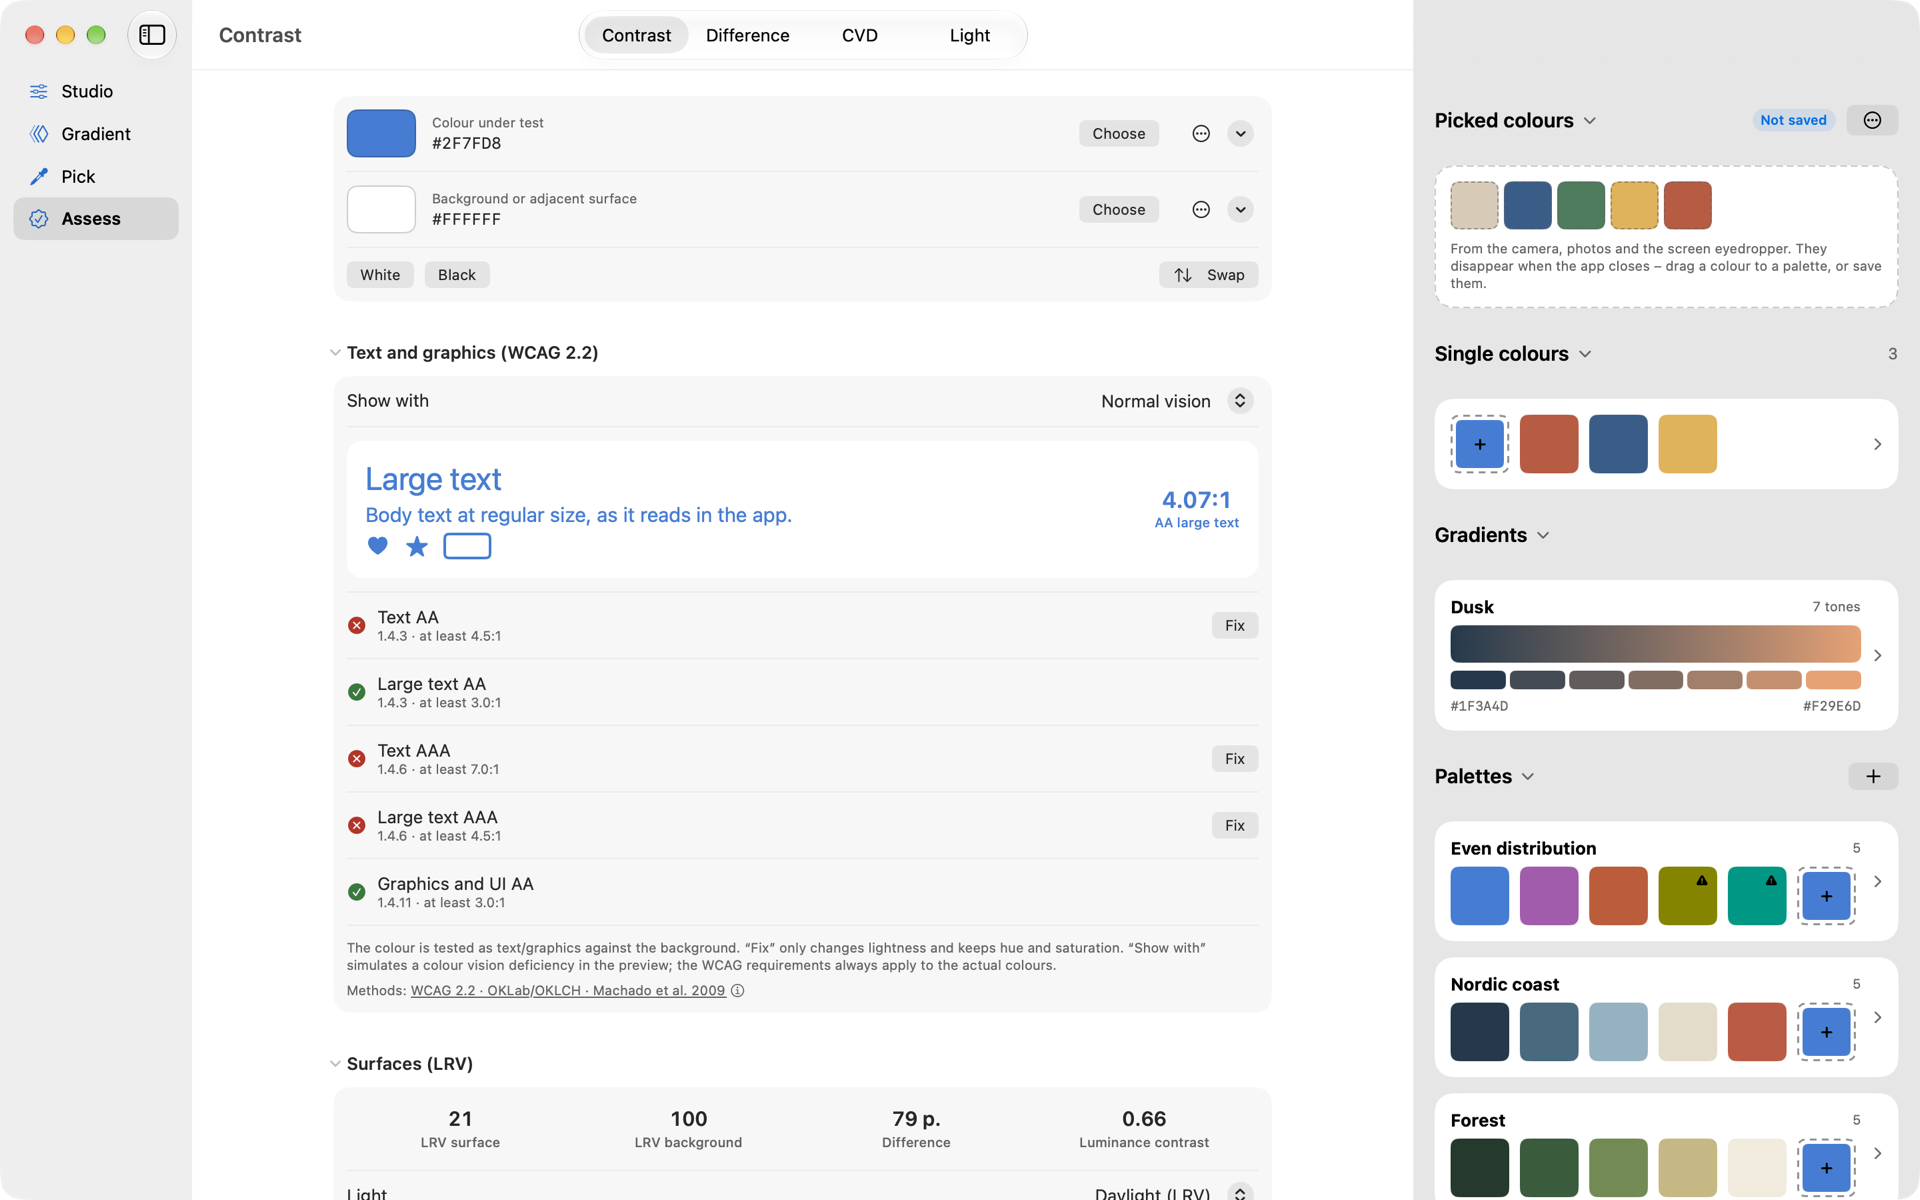
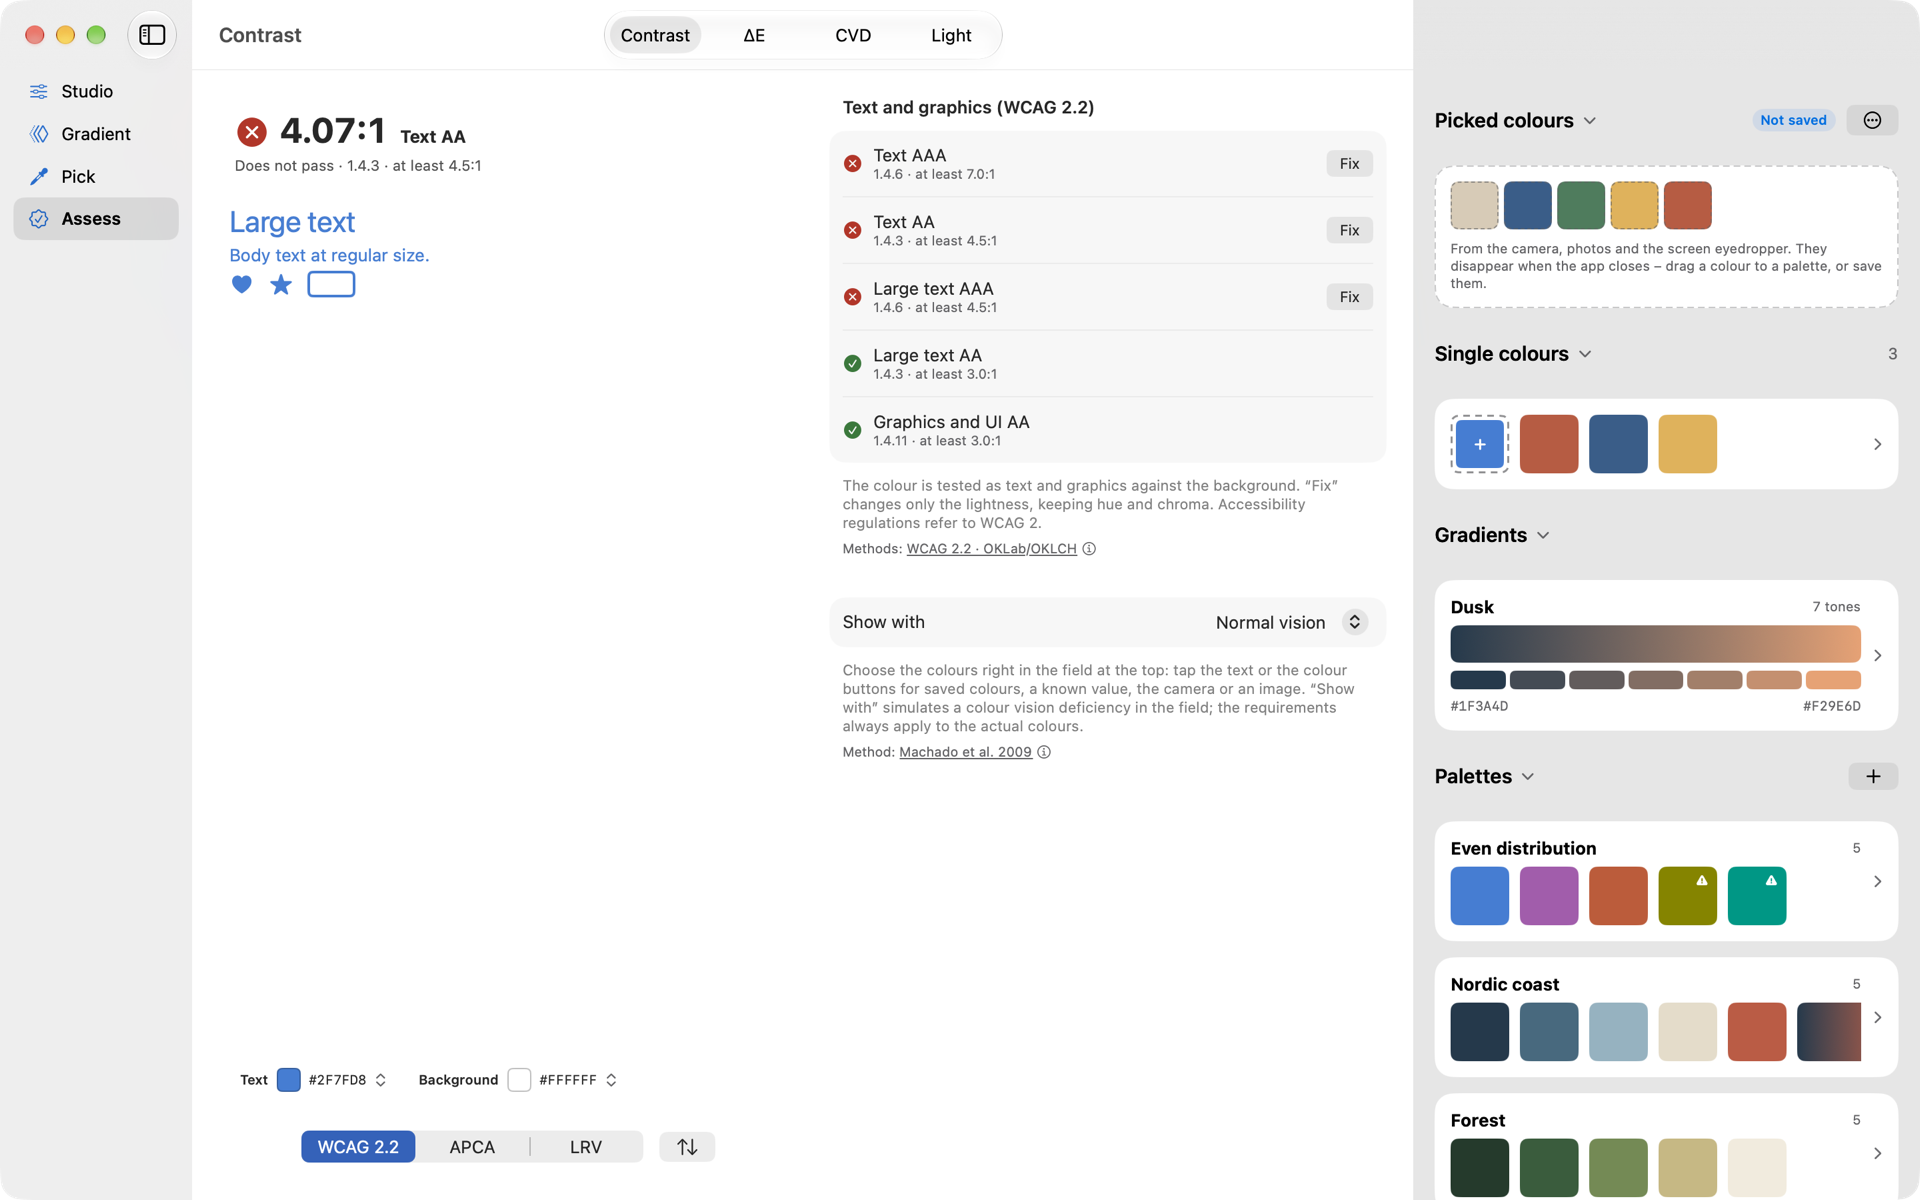
Mac-skjermbilder for 1.3 (designsystem, kontrast, flatekontrast; nb og en) på plattformsiden og til App Store; -visDesignsystem åpner i Designsystemer-fanen når vinduet er bredt

diff --git a/Kolorist/Visninger/Designsystem.swift b/Kolorist/Visninger/Designsystem.swift
@@ -169,6 +169,9 @@ struct DesignsystemRutenett: View {
 struct DesignsystemFane: View {
     @Environment(Arbeidsbenk.self) private var arbeidsbenk
     @State private var sti: [DesignsystemDokument] = []
+    #if DEBUG
+    @Query(sort: \DesignsystemDokument.opprettet, order: .reverse) private var designsystemer: [DesignsystemDokument]
+    #endif
 
     var body: some View {
         NavigationStack(path: $sti) {
@@ -185,6 +188,12 @@ struct DesignsystemFane: View {
             sti = [d]
             arbeidsbenk.designsystemSomÅpnes = nil
         }
+        #if DEBUG
+        // Skjermbilder: `-visDesignsystem YES` åpner det første designsystemet.
+        .task(id: designsystemer.count) {
+            if UserDefaults.standard.bool(forKey: "visDesignsystem"), sti.isEmpty, let d = designsystemer.first { sti = [d] }
+        }
+        #endif
         .onChange(of: sti) { _, ny in
             // Tilbake fra en forhåndsvisning: den er enten lagret (og står i lista) eller forkastet.
             if ny.isEmpty { arbeidsbenk.designsystemUtkast = nil }

diff --git a/web/1.3/en/platforms.html b/web/1.3/en/platforms.html
@@ -189,7 +189,7 @@
             <figcaption>iPad</figcaption>
           </figure>
           <figure class="skjermbilde mac">
-            <div class="ramme">Screenshot coming</div>
+            <img src="../assets/en/mac/skjermbilde-kontrast.png?v=8" alt="Contrast: WCAG, APCA or LRV – Mac" width="1920" height="1200" loading="lazy">
             <figcaption>Mac</figcaption>
           </figure>
         </div>
@@ -223,7 +223,7 @@
             <figcaption>iPad</figcaption>
           </figure>
           <figure class="skjermbilde mac">
-            <div class="ramme">Screenshot coming</div>
+            <img src="../assets/en/mac/skjermbilde-designsystem.png?v=8" alt="Design system: components – Mac" width="1920" height="1200" loading="lazy">
             <figcaption>Mac</figcaption>
           </figure>
         </div>

diff --git a/web/1.3/plattformer.html b/web/1.3/plattformer.html
@@ -189,7 +189,7 @@
             <figcaption>iPad</figcaption>
           </figure>
           <figure class="skjermbilde mac">
-            <div class="ramme">Skjermskudd kommer</div>
+            <img src="assets/mac/skjermbilde-kontrast.png?v=8" alt="Kontrast: WCAG, APCA eller LRV – Mac" width="1920" height="1200" loading="lazy">
             <figcaption>Mac</figcaption>
           </figure>
         </div>
@@ -223,7 +223,7 @@
             <figcaption>iPad</figcaption>
           </figure>
           <figure class="skjermbilde mac">
-            <div class="ramme">Skjermskudd kommer</div>
+            <img src="assets/mac/skjermbilde-designsystem.png?v=8" alt="Designsystem: komponenter – Mac" width="1920" height="1200" loading="lazy">
             <figcaption>Mac</figcaption>
           </figure>
         </div>

diff --git a/Kolorist/Visninger/PalettVisninger.swift b/Kolorist/Visninger/PalettVisninger.swift
@@ -355,7 +355,8 @@ struct PalettListe: View {
             .task { if UserDefaults.standard.bool(forKey: "lagreSomTest") { lagresSom = paletter.first } }
             // Skjermbilder: `-visDesignsystem YES` åpner det første designsystemet.
             .task(id: designsystemer.count) {
-                if UserDefaults.standard.bool(forKey: "visDesignsystem"), sti.isEmpty, let d = designsystemer.first {
+                // I palettspalten (bredt vindu) åpner Designsystemer-fanen det i stedet.
+                if UserDefaults.standard.bool(forKey: "visDesignsystem"), !iKolonne, sti.isEmpty, let d = designsystemer.first {
                     åpneDesignsystem(d)
                 }
             }

diff --git a/web/verktøy/lag_sider.py b/web/verktøy/lag_sider.py
@@ -838,11 +838,17 @@ def funksjoner(lang):
 
 # ---------- Plattformer ----------
 
-# Mac-skjermbilder som mangler for 1.3 (kontrast i kildesiden er fra 1.2).
-MAC_KOMMER = {'kontrast', 'fargefelt', 'designsystem'}
+# Mac-skjermbilder som mangler for 1.3.
+MAC_KOMMER = {'fargefelt'}
+# Mac-skjermbilder tatt for 1.3 (nye, eller erstatter 1.2-bildet i kildesiden).
+MAC_NYE = {'kontrast', 'designsystem', 'flatekontrast'}
 
 
 def macbilde(s, navn):
+    if navn in MAC_NYE:
+        en = '<html lang="en">' in s
+        src = f'../assets/en/mac/skjermbilde-{navn}.png?v=8' if en else f'assets/mac/skjermbilde-{navn}.png?v=8'
+        return f'<img src="{src}" alt="" width="1920" height="1200" loading="lazy">'
     return re.search(r'<img src="[^"]*assets/(?:en/)?mac/skjermbilde-' + navn + r'\.png[^"]*"[^>]*>', s).group(0)
 
 

diff --git a/Dokumentasjon/1.3/AppStore.md b/Dokumentasjon/1.3/AppStore.md
@@ -294,8 +294,8 @@ Siste linje: «Krever macOS 26. Apple Intelligence krever en Mac med Apple-chip.
 farge,palett,designsystem,tokens,pipette,OKLCH,CMYK,Munsell,kontrast,WCAG,APCA,LRV,mørk modus
 ```
 
-**Skjermbilder:** Mac-bildene for 1.3 er ikke tatt ennå (designsystem, kontrast, fargefelt). 1.2-bildene kan
-brukes til de nye er klare.
+**Skjermbilder:** `Dokumentasjon/1.3/Skjermbilder/mac-nb/` (2880 × 1800): designsystem, kontrast og flatekontrast. Bruk
+dem sammen med Studio, Harmoni, Overgang, Fargesyn og Lys fra 1.2 (`Dokumentasjon/1.2/Skjermbilder/mac-nb/`).
 
 ---
 
@@ -402,20 +402,24 @@ Contact: eivind.johansen@ntnu.no
 |---|---|---|---|
 | `nb/`, `en/` | iPhone 6,5″ | 1284 × 2778 | designsystem, toneskala, kontrast, flatekontrast, fargefelt |
 | `ipad-nb/`, `ipad-en/` | iPad 13″ | 2064 × 2752 | designsystem, kontrast, fargefelt |
-| Mac | – | – | ikke tatt ennå |
+| `mac-nb/`, `mac-en/` | Mac | 2880 × 1800 | designsystem, kontrast, flatekontrast |
 
 Simulatorene «Skjermbilder 6,5» og «Skjermbilder iPad 13», Debug-bygg med `-skjermbilde YES`, klokka satt til 9:41.
 Designsystemet med `-eksempeldesignsystem YES -visDesignsystem YES -startfane paletter` (fra «Jevn fordeling», med info som
 egen rolle). Kontrast med `-startfane vurdering -vurderingDel kontrast -kontrastType wcag`; flatekontrast med
 `-kontrastType lrv -startfarge "#B4674D" -flatekontrastmetode weber`.
 Toneskalaen er tatt fra «Nordisk kyst» (#3E6A80 › Lag toneskala), fargefeltet fra Tekst-menyen i kontrastsjekken.
+Mac: usignert Debug-bygg (utenfor sandkassen, så det ikke deler innstillinger med Xcode-bygget) med de samme argumentene og
+`-ApplePersistenceIgnoreState YES -kunSRGB NO -testmaalinger YES`; vinduet satt til 1440 × 900 pt på den innebygde
+Retina-skjermen og fanget med `screencapture -l <vindu> -o`. Designsystemet med `-startfane designsystemer
+-visDesignsystem YES`. Fargefeltet (menyen) er ikke tatt for Mac.
 
 ### Før du sender inn
 
 - [ ] CloudKit-skjemaet publisert til produksjon: nye felt `tekstfargeData` (PalettDokument) og ny modell
       `DesignsystemDokument`. Uten dette synkroniseres ikke skriftfarger og designsystemer i App Store-bygget.
 - [ ] Ny versjon 1.3 opprettet for iOS og macOS, med tekstene over.
-- [ ] Skjermbilder lastet opp (iPhone og iPad på norsk og engelsk; Mac når de er tatt).
+- [ ] Skjermbilder lastet opp (iPhone, iPad og Mac, norsk og engelsk).
 - [ ] 1.3-nettsiden publisert på kolorist.no før innsending; 1.2 flyttes til `historisk/1.2/`.
 - [ ] Notes for App Review byttet til teksten over.
 - [ ] `CURRENT_PROJECT_VERSION` økt for opplastingen.
